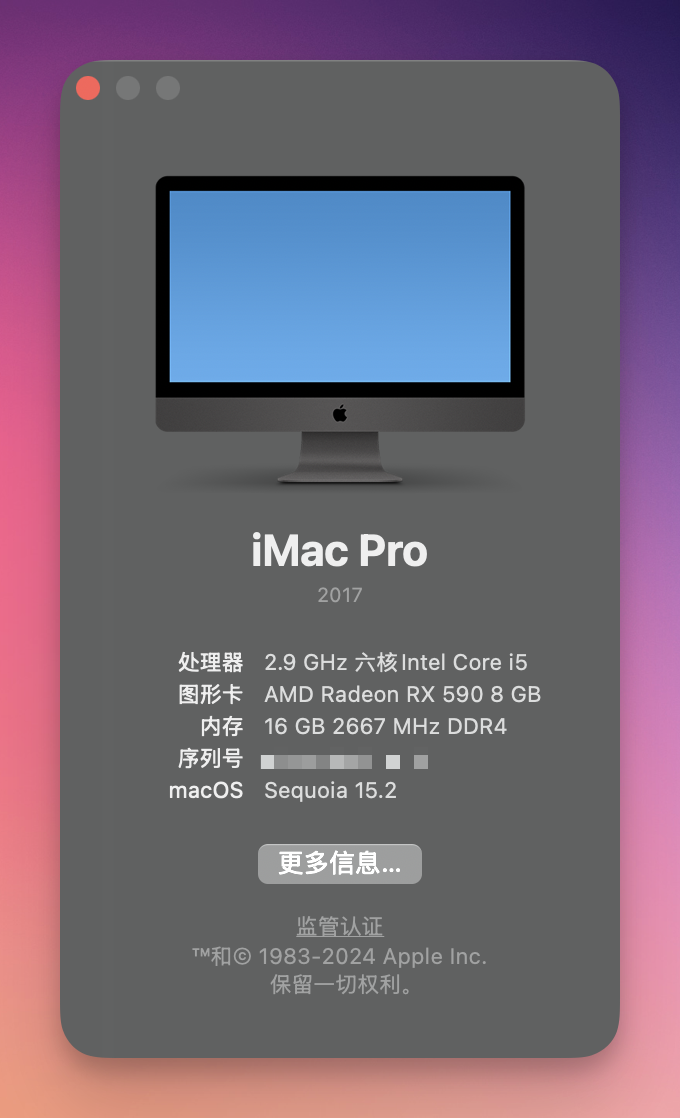
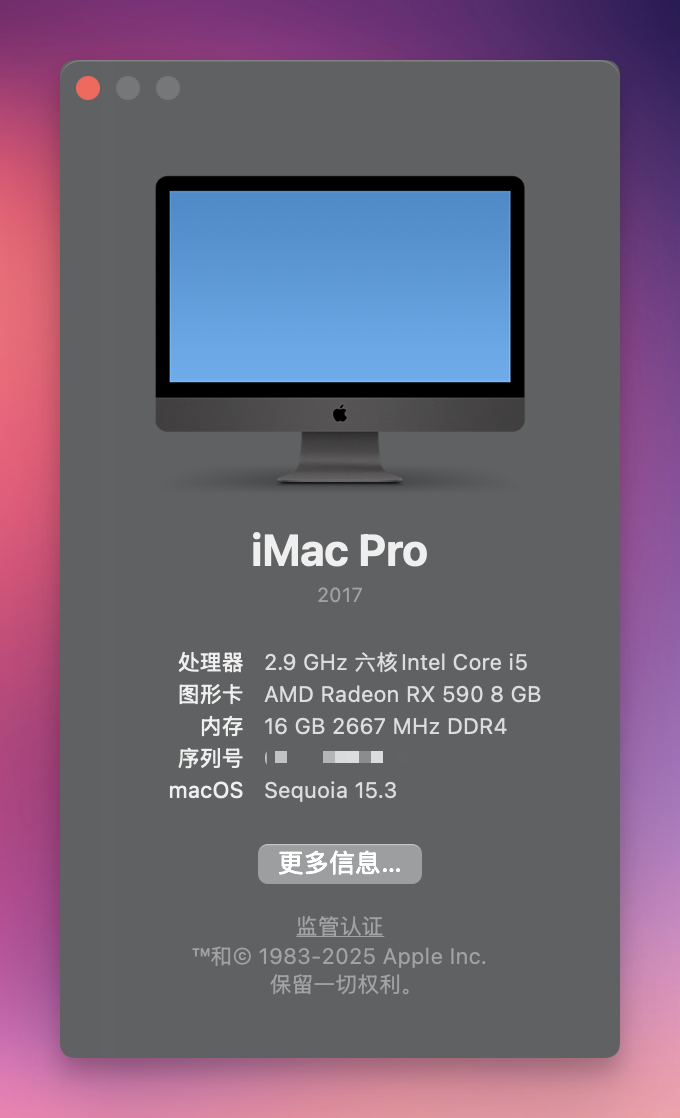
macOS 15.3

diff --git a/README.md b/README.md
@@ -1,7 +1,7 @@
 <!---  Update the following   -->
 
-[os_img]: https://img.shields.io/badge/macOS-15.2-6D67E4
-[os_link]: https://support.apple.com/en-hk/121839
+[os_img]: https://img.shields.io/badge/macOS-15.3-6D67E4
+[os_link]: https://support.apple.com/en-hk/122068
 
 [oc_img]: https://img.shields.io/badge/OpenCore-1.0.3-519872
 [oc_link]: https://github.com/acidanthera/OpenCorePkg/releases/tag/1.0.3
@@ -39,7 +39,7 @@
 
 | EFI   | macOS             | OC & OCLP         |     -      |
 | ----- | ----------------- | :---------------: | :--------: |
-| 5.2   | 15.2              |  1.0.3 & 2.2.0    | 2024.12.12 |
+| 5.2   | 15.2 ~ 15.3       |  1.0.3 & 2.2.0    | 2024.12.12 |
 | 5.1   | 15.1              |  1.0.2 & 2.0.2    | 2024.10.30 |
 | 5.0   | 15.0              |  1.0.1 & 2.0.1    | 2024.09.17 |
 
